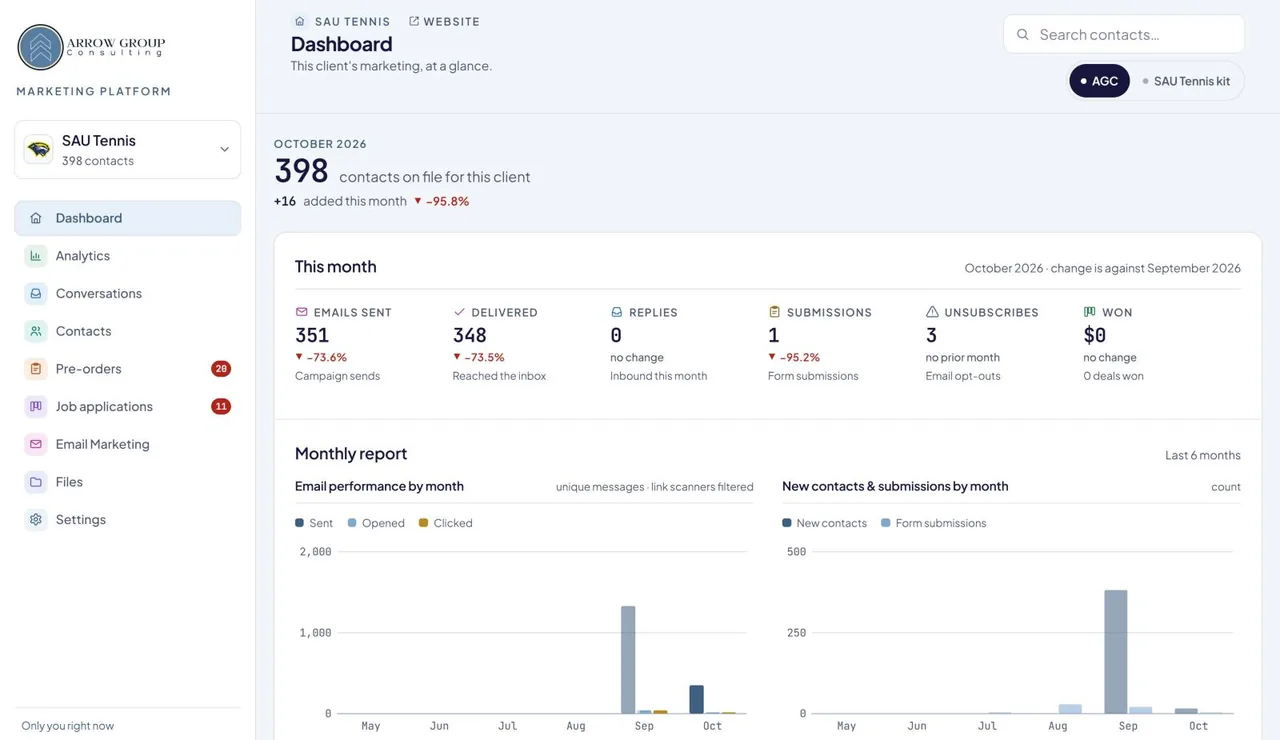
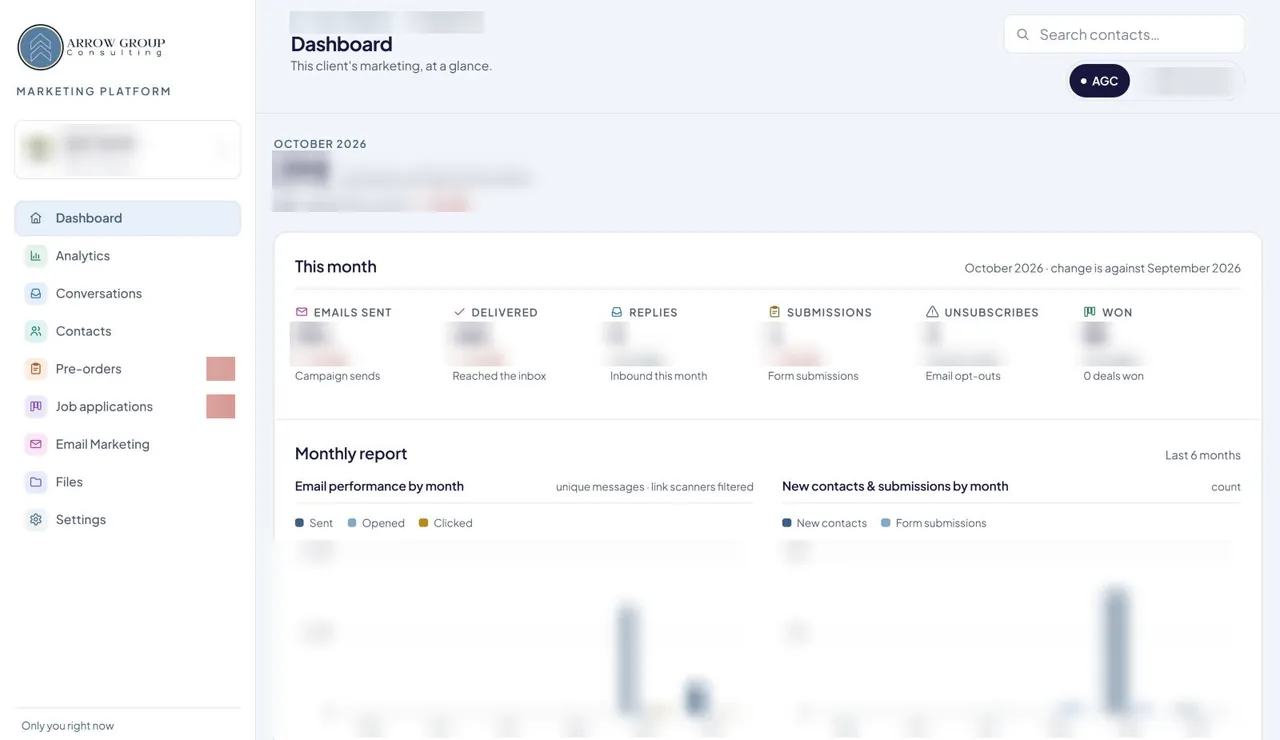
fix: blur client figures in agency screenshots; safer prerender replace
- arrowplatform-1/-2 (PNG and 640/1280 WebP): client name, contact and
  send counts, rates, campaign names and dates pixelated and blurred; UI
  kept. Caption says so.
- prerender: function replacers so $-patterns in content stay literal.
- _redirects: /work and /work/ go to /#work.

diff --git a/src/data/content.js b/src/data/content.js
@@ -100,7 +100,7 @@ export const agencyCase = {
     { src: '/work-thumbs/arrowplatform-1.png', w: 1600, h: 925, label: 'Client dashboard: the month at a glance, with a monthly report' },
     { src: '/work-thumbs/arrowplatform-2.png', w: 1600, h: 680, label: 'Campaigns: delivery, opens, clicks and unsubscribes for every send' },
   ],
-  note: 'Private company platform, so there is no public link. Screenshots shown with the agency owner’s approval.',
+  note: 'Private company platform, so there is no public link. Screenshots shown with the agency owner’s approval; the client’s name and figures are blurred.',
 };
 
 // Client work, shown as one compact list. `url` only where the domain still belongs to
